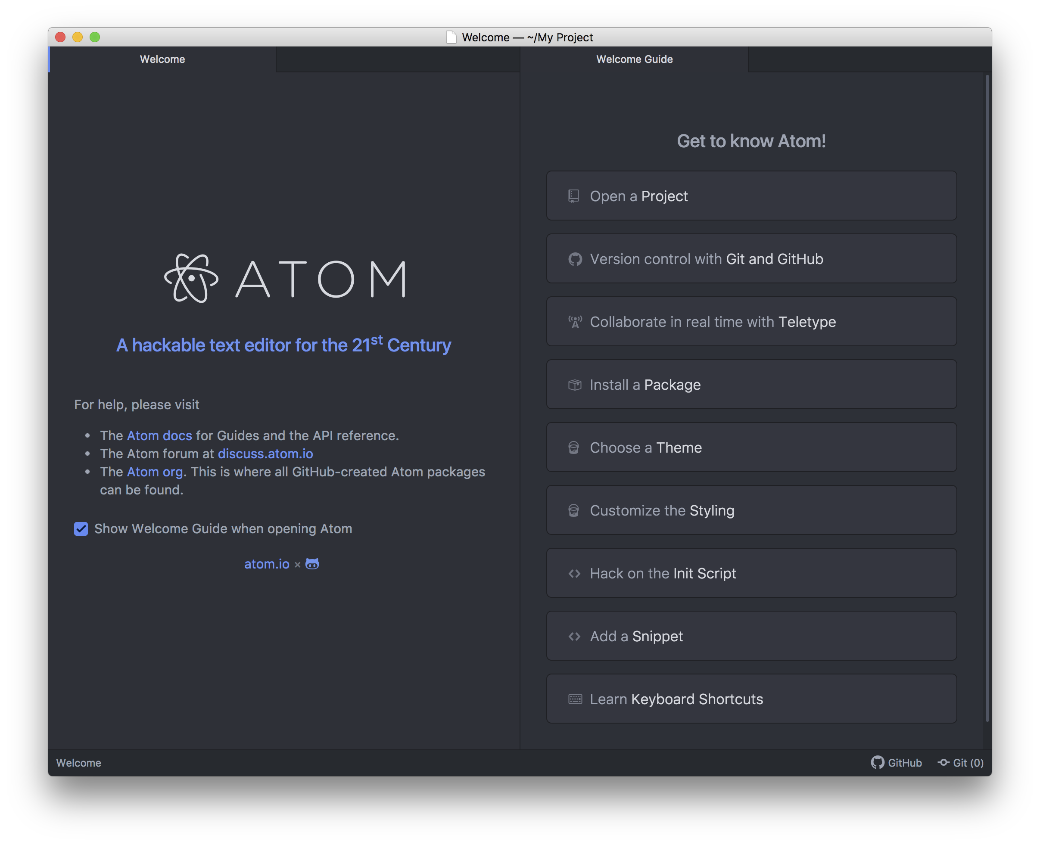
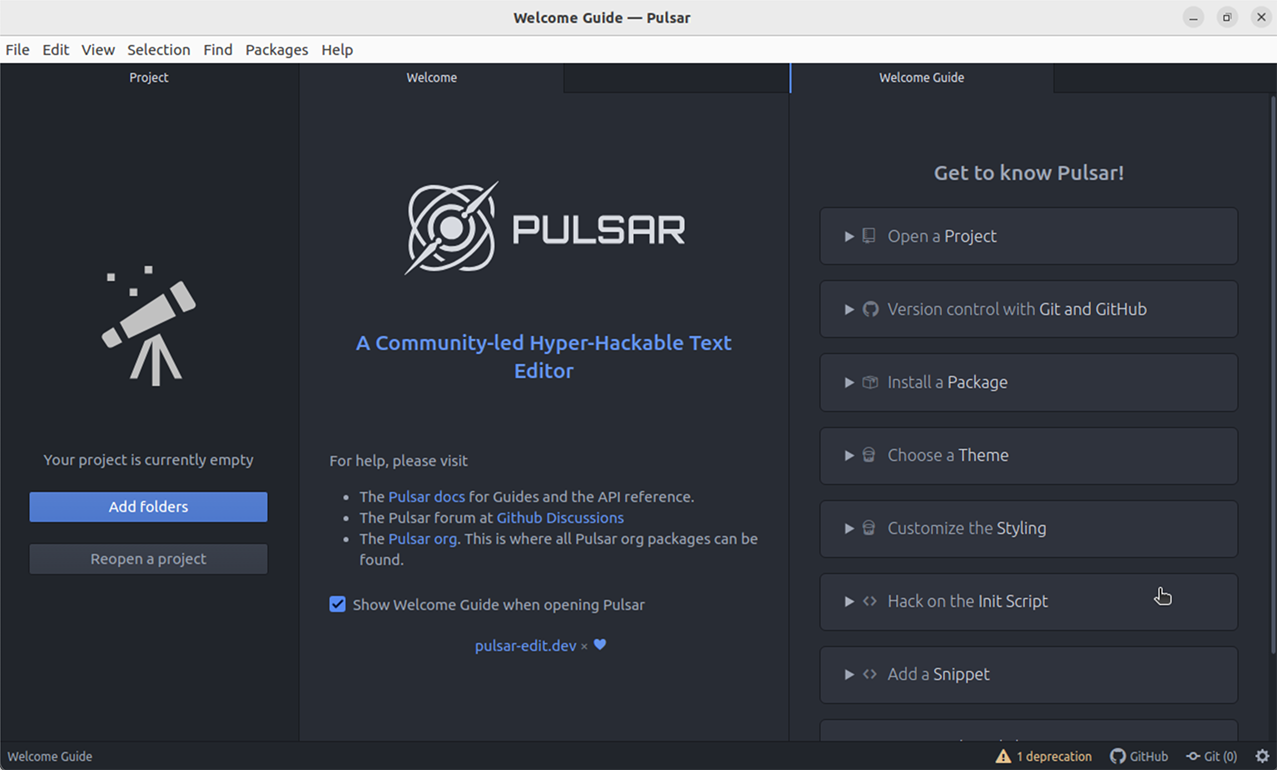
Fix apostrophes on `basics.md`…
…and swap in a screenshot to replace one that still had Atom branding.

diff --git a/docs/using-pulsar/basics.md b/docs/using-pulsar/basics.md
@@ -3,13 +3,13 @@ title: Basics
 layout: doc.ejs
 ---
 
-Now that Pulsar is installed on your system, let's fire it up, configure it and get acquainted with the editor.
+Now that Pulsar is installed on your system, let’s fire it up, configure it and get acquainted with the editor.
 
 When you launch Pulsar for the first time, you should get a screen that looks like this:
 
-![Pulsar's welcome screen](/img/atom/first-launch.png)
+![Pulsar’s welcome screen](/img/atom/first-launch.png)
 
-This is the Pulsar welcome screen (powered by the `welcome` package) and it gives you a pretty good starting point for how to get started with the editor.
+This is the Pulsar welcome screen (powered by the `welcome` package) and it gives you a pretty good starting point for how to get started with the editor. Once you get comfortable, you can uncheck “Show Welcome Guide when opening Pulsar” to stop seeing it on every launch.
 
 ## Terminology
 
@@ -17,7 +17,7 @@ Below is a list of some useful terms used with regard to Pulsar.
 
 ### Buffer
 
-A _buffer_ is the text content of a file in Pulsar. It's basically the same as a file for most descriptions, but it's the version Pulsar has in memory. For instance, you can change the text of a buffer and it isn't written to its associated file until you save it.
+A _buffer_ is the text content of a file in Pulsar. It’s basically the same as a file for most descriptions, but it’s the version Pulsar has in memory. For instance, you can change the text of a buffer and it isn’t written to its associated file until you save it.
 
 ### Command
 
@@ -25,13 +25,8 @@ A _command_ is a bit of functionality in Pulsar that can be triggered by the use
 
 ### Dock
 
-_Docks_ are collapsible [pane containers](#pane-container) that attach to the left, right, and bottom sides of the Pulsar window.
+_Docks_ are collapsible [pane containers](#pane-container) that attach to the left, right, and bottom sides of the Pulsar window. They hold [panels](#panel) such as the tree view and the Git and GitHub panels.
 
-Examples:
-
-  * Tree View
-  * Git
-  * GitHub
 
 ### Key combination
 
@@ -45,7 +40,9 @@ Examples:
 
 ### Key sequence
 
-A _key sequence_ is a special case of a key combination. It is a key combination that consists of keys that must be pressed and released in sequence. [[Ctrl+K]] [[Down]] is a key sequence. [[Alt+S]] is not a key sequence because it is two keys that are pressed and released together rather than in succession.
+A _key sequence_ is a special case of a key combination. It is a key combination that consists of keys that must be pressed and released in sequence. [[Ctrl+K]] [[Down]] is a key sequence: first press and release [[Ctrl+K]], then press [[Down]].
+
+[[Alt+S]] is not a key sequence because it is two keys that are pressed and released together rather than in succession.
 
 ### Keybinding
 
@@ -71,8 +68,14 @@ A _pane container_ is a section of the Pulsar UI that can contain multiple [pane
 
 A _pane item_ is a view, often an editor, that is displayed within a [pane](#pane). In the default configuration of Pulsar, pane items are represented by tabs at the top of each pane.
 
+Here are some pane items you might encounter that _aren’t_ code editors:
+
+* the results of a project-wide find (via the {find-and-replace} package)
+* the {settings-view "settings view"}
+* the diff views from the {github} package that show you the difference between two versions of the same file
+
 ::: info
-**Note:** The reason why we don't call them "tabs" is because you can disable the {tabs} package and then there aren't any tabs. For a similar reason, we don't call them files because some things can be shown in a pane that aren't files, like the {settings-view "settings view"}.
+**Note:** The reason why we don’t call them "tabs" is because you can disable the {tabs} package and then there aren’t any tabs. For a similar reason, we don’t call them files, since many possible pane items exist that have little to do with an individual file.
 :::
 
 ### Panel
@@ -102,7 +105,7 @@ Pulsar has a number of settings and preferences you can modify in the **settings
 
 ![Settings View](/img/atom/settings-view.png "Settings View")
 
-This includes things like changing the theme, specifying how to handle wrapping, font settings, tab size, scroll speed and much more. You can also use this screen to install new packages and themes, as we'll cover in [Pulsar Packages](/using-pulsar/pulsar-packages/).
+This includes things like changing the theme, specifying how to handle wrapping, font settings, tab size, scroll speed and much more. You can also use this screen to install new packages and themes, as we’ll cover in [Pulsar Packages](/using-pulsar/pulsar-packages/).
 
 To open the settings view, you can
 
@@ -160,7 +163,7 @@ There are several ways to open a file in Pulsar. You can do it by choosing _File
 
 ![Open file by dialog](/img/atom/open-file.png "Open file by dialog")
 
-This is useful for opening a file that is not contained in the project you're currently in (more on that next), or if you're starting from a new window for some reason.
+This is useful for opening a file that is not contained in the project you’re currently in (more on that next), or if you’re starting from a new window for some reason.
 
 Another way to open a file in Pulsar is from the command line using the `pulsar` command.
 
@@ -184,7 +187,7 @@ $ pulsar --help
 > ...
 ```
 
-This is a great tool if you're used to the terminal or you work from the terminal a lot. Just fire off `pulsar [files]` and you're ready to start editing. You can even open a file at a certain line (and optionally column) so the cursor will be positioned exactly where you want. For example, you may search some keyword in a repository to find the line you want to edit:
+This is a great tool if you’re used to the terminal or you work from the terminal a lot. Just fire off `pulsar [files]` and you’re ready to start editing. You can even open a file at a certain line (and optionally column) so the cursor will be positioned exactly where you want. For example, you may search some keyword in a repository to find the line you want to edit:
 
 ```sh
 $ git grep -n 'Opening a File$'
@@ -211,24 +214,8 @@ Editing text in Pulsar will feel familiar. You can click around and scroll with 
 
 If you prefer editors with modes or more complex key commands, you should take a look at the [Pulsar Package Registry](https://web.pulsar-edit.dev). There are a lot of packages that emulate popular styles.
 
-:::tabs#getting-started
-
-@tab Linux
-
-To save a file, you can choose _File > Save_ from the menu bar or [[Ctrl+S]] to save the file. If you choose _File > Save As_ or press [[Ctrl+Shift+S]] then you can save the current content in your editor under a different file name.
-Finally, you can choose _File > Save All_ to save all the open files in Pulsar.
-
-@tab macOS
-
-To save a file, you can choose _File > Save_ from the menu bar or [[Cmd+S]] to save the file. If you choose _File > Save As_ or press [[Cmd+Shift+S]] then you can save the current content in your editor under a different file name.
-Finally, you can choose _File > Save All_ or press [[Alt+Cmd+S]] to save all the open files in Pulsar.
-
-@tab Windows
-
-To save a file, you can choose _File > Save_ from the menu bar or [[Ctrl+S]] to save the file. If you choose _File > Save As_ or press [[Ctrl+Shift+S]] then you can save the current content in your editor under a different file name.
-Finally, you can choose _File > Save All_ to save all the open files in Pulsar.
-
-:::
+To save a file, you can choose _File > Save_ from the menu bar or <kbd class="platform-win platform-linux">Ctrl+S</kbd><kbd class="platform-mac">Cmd+S</kbd> to save the file. If you choose _File > Save As_ or press <kbd class="platform-win platform-linux">Ctrl+Shift+S</kbd><kbd class="platform-mac">Cmd+Shift+S</kbd> then you can save the current content in your editor under a different file name.
+Finally, you can choose _File > Save All_  <span class="platform-mac">or press <kbd>Alt+Cmd+S</kbd></span> to save all the open files in Pulsar.
 
 ### Opening Directories
 
@@ -278,9 +265,9 @@ You can open the **fuzzy finder** with <span class="platform-linux platform-win"
 
 You can also press <kbd class="platform-linux platform-win">Ctrl+B</kbd><kbd class="platform-mac">Cmd+B</kbd> to search through only the files that are currently opened, instead of every file in your project. Or you can use <kbd class="platform-linux platform-win">Ctrl+Shift+B</kbd><kbd class="platform-mac">Cmd+Shift+B</kbd> to search only the files which have been modified or added since your last Git commit.
 
-The fuzzy finder uses the `core.ignoredNames`, `fuzzy-finder.ignoredNames` and `core.excludeVCSIgnoredPaths` configuration settings to filter out files and folders that will not be shown. If you have a project with tons of files you don't want it to search through, you can add patterns or paths to either of these config settings. If your project is also a repository, the `core.excludeVCSIgnoredPaths` setting controls whether Pulsar will ignore files that are specified in [`.gitignore` files](https://git-scm.com/docs/gitignore) and their equivalents in other common VCS systems.
+The fuzzy finder uses the `core.ignoredNames`, `fuzzy-finder.ignoredNames` and `core.excludeVCSIgnoredPaths` configuration settings to filter out files and folders that will not be shown. If you have a project with tons of files you don’t want it to search through, you can add patterns or paths to either of these config settings. If your project is also a repository, the `core.excludeVCSIgnoredPaths` setting controls whether Pulsar will ignore files that are specified in [`.gitignore` files](https://git-scm.com/docs/gitignore) and their equivalents in other common VCS systems.
 
-We'll learn more about config settings in [Global configuration settings](/customizing-pulsar/global-configuration-settings/), but for now you can easily set these in the Settings View under Core Settings.
+We’ll learn more about config settings in [Global configuration settings](/customizing-pulsar/global-configuration-settings/), but for now you can easily set these in the Settings View under Core Settings.
 
 Both `core.ignoredNames` and `fuzzy-finder.ignoredNames` are interpreted as glob patterns as implemented by the [minimatch Node module](https://github.com/isaacs/minimatch).
 
@@ -288,7 +275,7 @@ The fuzzy finder is provided by the builtin {fuzzy-finder} package.
 
 ::: tip Configuration Setting Notation
 
-Sometimes you'll see us refer to configuration settings all spelled out, like **Core: Ignored Names**. Other times you'll see us use the shorthand name like `core.ignoredNames`. These refer to the same setting.
+Sometimes you’ll see us refer to configuration settings all spelled out, like **Core: Ignored Names**. Other times you’ll see us use the shorthand name like `core.ignoredNames`. These refer to the same setting.
 
 In your config file, settings are organized by section (`core`, `editor`, etc.) or by package name (`tree-view`, `fuzzy-finder`, `etc`). Setting names themselves are `camelCased`. So if you were editing your config file manually, you’d look for a setting called `ignoredNames` under the `core` key.
 
